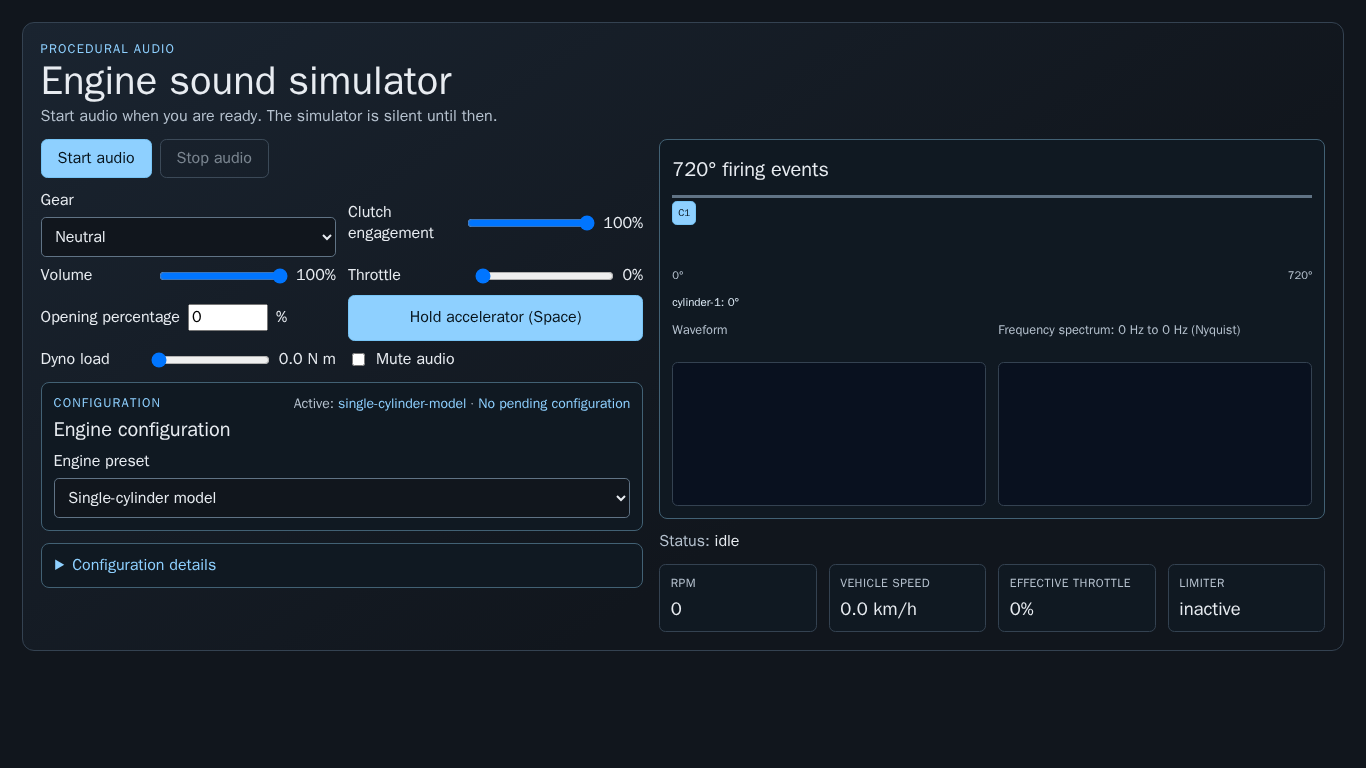
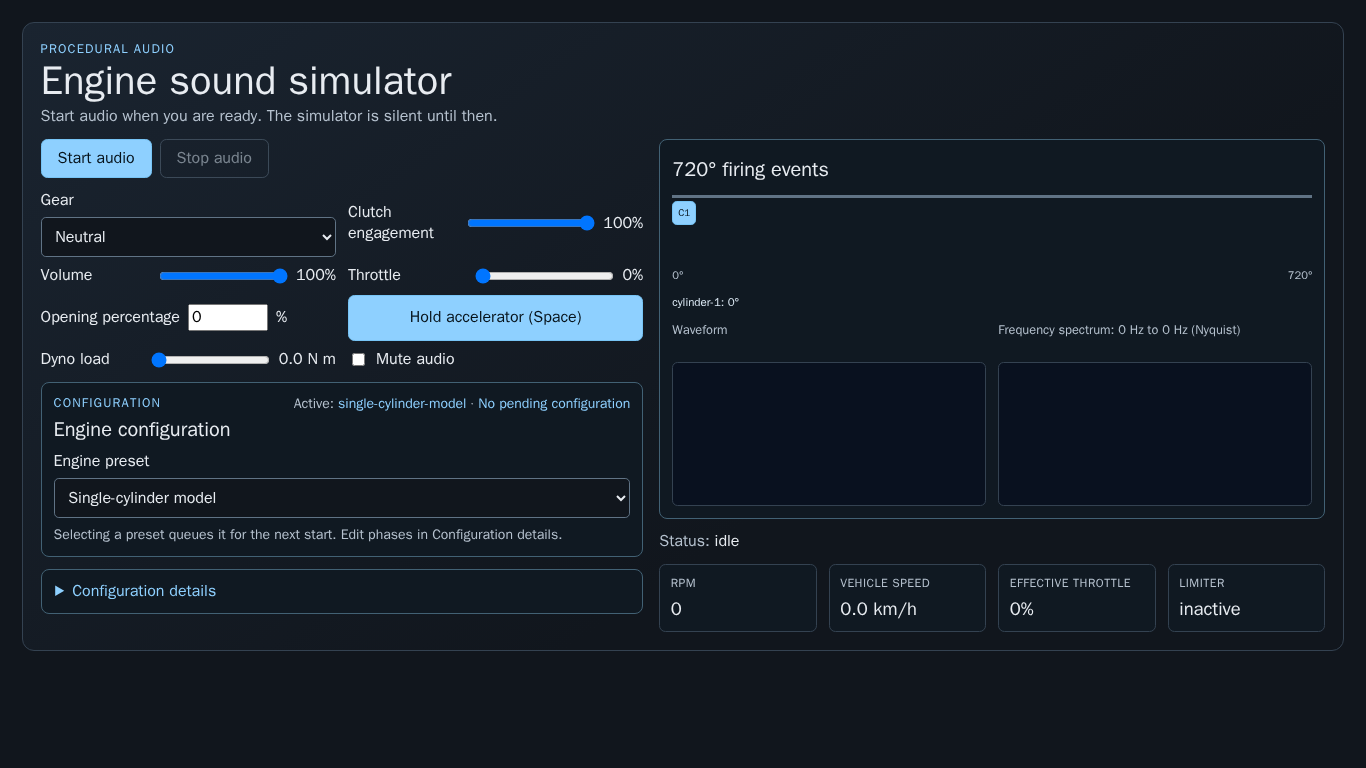
feat(ticket 27 follow-up): queue preset selection as pending immediately
- Preset selection while stopped validates via controller.stageConfig and
  stores as pending even with Configuration details closed
- Custom phase settings (__custom__) shown when phases are manually edited
- Reselecting original preset restores initial phase values
- Add E2E tests for closed-dashboard preset queueing and custom phase
  reselection
- Update README, ticket doc and report for follow-up changes

Changed region(s): [[0.0307, 0.6875, 0.4305, 0.7812]]

diff --git a/src/app/App.tsx b/src/app/App.tsx
@@ -33,6 +33,7 @@ const availablePresets: readonly EnginePreset[] = [
   vSixPreset,
   vEightPreset,
 ];
+const CUSTOM_PRESET_ID = "__custom__";
 
 function phaseValues(config: EngineConfig): string[] {
   return config.cylinders.map((cylinder) => String(cylinder.firingAngleDeg));
@@ -290,16 +291,21 @@ export function App() {
     syncHoldThrottle,
   ]);
 
-  const selectPreset = useCallback((presetId: string) => {
-    const preset = availablePresets.find(
-      ({ config }) => config.id === presetId,
-    );
-    if (!preset) return;
-    setSelectedPresetId(presetId);
-    setDraftConfig(preset.config);
-    setPhases(phaseValues(preset.config));
-    setValidationIssues([]);
-  }, []);
+  const selectPreset = useCallback(
+    (presetId: string) => {
+      const preset = availablePresets.find(
+        ({ config }) => config.id === presetId,
+      );
+      if (!preset) return;
+      const result = controller.stageConfig(preset.config);
+      if (!result.ok) return;
+      setSelectedPresetId(presetId);
+      setDraftConfig(result.value);
+      setPhases(phaseValues(result.value));
+      setValidationIssues([]);
+    },
+    [controller],
+  );
 
   const updatePhase = useCallback((index: number, value: string) => {
     setPhases((current) =>
@@ -307,6 +313,7 @@ export function App() {
         currentIndex === index ? value : phase,
       ),
     );
+    setSelectedPresetId(CUSTOM_PRESET_ID);
     setValidationIssues([]);
   }, []);
 
@@ -614,10 +621,14 @@ export function App() {
               <span>Engine preset</span>
               <select
                 id="engine-preset"
+                aria-describedby="preset-apply-help"
                 value={selectedPresetId}
                 onChange={(event) => selectPreset(event.target.value)}
                 disabled={!canStageConfig}
               >
+                {selectedPresetId === CUSTOM_PRESET_ID ? (
+                  <option value={CUSTOM_PRESET_ID}>Custom phase settings</option>
+                ) : null}
                 {availablePresets.map((preset) => (
                   <option key={preset.config.id} value={preset.config.id}>
                     {preset.metadata.name}
@@ -625,6 +636,10 @@ export function App() {
                 ))}
               </select>
             </label>
+            <p className="cycle-description" id="preset-apply-help">
+              Selecting a preset queues it for the next start. Edit phases in
+              Configuration details.
+            </p>
 
             {validationIssues.length > 0 || drivetrainIssues.length > 0 ? (
               <p className="validation-summary" role="alert">

diff --git a/tests/e2e/worklet.spec.ts b/tests/e2e/worklet.spec.ts
@@ -781,6 +781,63 @@ test("stages preset phase edits from the keyboard without creating audio", async
     .toBe(0);
 });
 
+test("queues a selected preset from the closed dashboard without starting audio", async ({
+  page,
+}) => {
+  await instrumentAudioGraph(page);
+  await page.goto("/");
+
+  await expect(page.locator(".configuration-details")).not.toHaveAttribute(
+    "open",
+  );
+  await page.getByLabel("Engine preset").focus();
+  await page.keyboard.press("End");
+  await expect(page.getByLabel("Engine preset")).toHaveValue(
+    "even-fire-v8-model",
+  );
+  await expect(page.getByTestId("pending-config")).toHaveText(
+    "even-fire-v8-model",
+  );
+  await expect(page.getByTestId("active-config")).toHaveText(
+    "single-cylinder-model",
+  );
+  await expect(page.getByTestId("firing-event")).toHaveCount(1);
+  await expect
+    .poll(() => audioGraphCount(page, "__e2eAudioContextCount"))
+    .toBe(0);
+
+  await page.getByRole("button", { name: "Start audio" }).click();
+  await expect(page.getByTestId("audio-status")).toHaveText("running");
+  await expect(page.getByTestId("active-config")).toHaveText(
+    "even-fire-v8-model",
+  );
+  await expect(page.getByTestId("pending-config")).toHaveText(
+    "No pending configuration",
+  );
+  await expect(page.getByLabel("Engine preset")).toBeDisabled();
+  await page.getByRole("button", { name: "Stop audio" }).click();
+  await expect(page.getByTestId("audio-status")).toHaveText("idle");
+});
+
+test("can reselect a preset after editing custom phases", async ({ page }) => {
+  await page.goto("/");
+  await page.getByLabel("Engine preset").selectOption("even-fire-v8-model");
+  await page.getByText("Configuration details", { exact: true }).click();
+  const firstPhase = page.getByLabel("Cylinder 1 phase (degrees)");
+  await firstPhase.fill("1");
+  await expect(page.getByLabel("Engine preset")).toHaveValue("__custom__");
+  await page.getByRole("button", { name: "Apply for next start" }).click();
+  await expect(firstPhase).toHaveValue("1");
+  await page.getByText("Configuration details", { exact: true }).click();
+
+  await page.getByLabel("Engine preset").selectOption("even-fire-v8-model");
+  await expect(page.getByTestId("pending-config")).toHaveText(
+    "even-fire-v8-model",
+  );
+  await page.getByText("Configuration details", { exact: true }).click();
+  await expect(firstPhase).toHaveValue("0");
+});
+
 test("applies a stopped two-stroke 360-degree configuration and starts it", async ({
   page,
 }) => {

diff --git a/docs/tickets/reports/027.md b/docs/tickets/reports/027.md
@@ -4,7 +4,7 @@
 
 Status: verified
 
-The mandatory automated acceptance, independent review and committed local Docker gate are complete.
+The original implementation passed its mandatory checks. A follow-up to make preset selection queue the configuration immediately is awaiting its committed Docker gate and final review.
 
 ## Scope
 
@@ -12,6 +12,7 @@ The mandatory automated acceptance, independent review and committed local Docke
 - Reviewed implementation revision: `0adbe22`.
 - Reorganized the existing controls and visualizations into a two-column desktop dashboard, kept the preset and pending state visible, and moved stopped-only settings into native collapsible details.
 - Narrow layouts stack the same controls without remounting the audio controller or visualization. The hold accelerator releases when a touch moves outside its bounds.
+- Follow-up: selecting a preset while stopped now validates and stores it as pending immediately, even with details closed. Individual phase edits still require the Apply button in details; active config changes only after the next Worklet handshake. Follow-up implementation revision: pending commit.
 
 ## Acceptance evidence
 
@@ -20,6 +21,7 @@ The mandatory automated acceptance, independent review and committed local Docke
 - `tests/e2e/dashboard.spec.ts`, `preserves playback and inputs`: stages V8, starts native audio, resizes from 1440px to 320px, opens and closes details, checks running state, active configuration and volume/throttle/load values, and stops audio. Canvas backing stores are checked at initial idle, running resize and stopped resize against both CSS dimensions and device pixel ratio. Code inspection confirms the existing controller is stored outside React and no resize/toggle path creates a new context; the E2E does not directly count context instances in this case.
 - `tests/e2e/dashboard.spec.ts`, touch-outside case: checks hold release after moving the active touch outside the accelerator.
 - Existing `tests/e2e/worklet.spec.ts` covers stopped-only staging, pending config, keyboard shifts, validation focus, visualization reads and restart cleanup across development and Nginx browser projects. Cases that access stopped-only fields explicitly open details.
+- `tests/e2e/worklet.spec.ts`, `queues a selected preset from the closed dashboard without starting audio`: proves selection creates pending immediately while active config and firing strip remain unchanged, no AudioContext is created, next start promotes the preset, and selection is disabled while running.
 - Screenshot evidence: [1366px desktop](../evidence/027/desktop-1366.png), [1440px desktop](../evidence/027/desktop-1440.png), [320px expanded mobile](../evidence/027/mobile-320-expanded.png). Both desktop images show readable controls, firing strip and analyser panes within the viewport; the 320px expanded form is readable without clipped inputs. These are Chromium CSS viewport captures, not physical phone evidence.
 
 ## Review
@@ -27,14 +29,16 @@ The mandatory automated acceptance, independent review and committed local Docke
 - Self-review covered the full diff against `origin/main`, narrow input overflow, keyboard focus, touch hold cancellation, validation announcements, stable controller state, visualization cleanup and screenshot readability. E2E exposed duplicate validation alerts and a Space-key hold regression, both corrected before the 50-case pass.
 - A `gpt-6-sol` / medium worker owned `src/app/App.tsx` and `src/styles/index.css` because the UI layout, existing control state and keyboard/pointer behavior interact. Its selected and observed model/effort matched. The orchestrator owns E2E, documentation, Git and integration.
 - A fresh independent `ticket-reviewer` (`gpt-6-sol` / high) found that canvas backing stores were resized only while running. The sizing effect now remains active at idle and after stop, independent from the RAF animation loop. The reviewer rechecked the corrected effect and new initial/running/stopped E2E assertions and reported no remaining actionable issue. The reviewer inspected all three screenshots independently.
+- Follow-up self-review checked that preset selection uses the existing stopped-only controller validation path and does not bypass pending/active handshake. Independent follow-up review: pending.
 
 ## Verification
 
 - Docker `make e2e` — passed: 50 Chromium tests across Vite development and Nginx production projects, including the review correction.
 - Docker `make ci` — passed on committed implementation revision `0adbe22`: formatting, Markdown, ticket catalog/tooling, ESLint, TypeScript, 193 unit tests in 25 files, application and web image builds, 50 Playwright cases, actionlint, Hadolint and committed-history Gitleaks over 108 commits.
+- Follow-up `make e2e` — passed: 52 Chromium tests across Vite development and Nginx production projects. Follow-up committed `make ci` is pending.
 - Final-head GitHub `Repository checks`: pending until the Draft PR is pushed.
 
 ## Limits and next actions
 
 - Smartphone physical-device audio and listening are optional for this ticket and were not performed. No physical-device result is claimed.
-- No mandatory local acceptance check or review finding remains pending. Current-head GitHub CI is tracked in the Draft PR.
+- Follow-up committed Docker gate, independent review and current-head GitHub CI remain pending. The Draft PR tracks the final CI result.

diff --git a/docs/tickets/027-responsive-dashboard.md b/docs/tickets/027-responsive-dashboard.md
@@ -17,6 +17,7 @@ PCでは主要操作と可視化を同時に見渡せ、スマートフォンで
 
 - `src/app/App.tsx`、`src/styles/index.css`、`src/components/EngineVisualizations.tsx` と関連コンポーネント、`tests/e2e/worklet.spec.ts` または新規レイアウトspecを対象とする。
 - 広い画面は操作・状態と可視化を複数列に配置する。構成編集と長い説明は明示的に開閉できる詳細領域へまとめ、初期状態で閉じる。詳細を隠しても適用待ち・検証エラーの存在と編集への入口は分かること。
+- プリセット選択は詳細を閉じた状態でも操作でき、停止中の選択時に検証済み構成を次回開始用のpendingへ保存する。位相を手編集すると選択欄をカスタム表示に変え、元のプリセットを選び直して初期位相へ戻せるようにする。位相の個別編集は詳細内の反映ボタンで保存する。どちらもAudioContextを開始せず、適用済み構成への昇格は次回開始時のWorklet確認後とする。
 - 1366×768および1440×900のCSS viewport、標準倍率、詳細を閉じた初期画面で、開始/停止・音量・RPM・アクセル・負荷・ギア/クラッチ・車速・プリセット選択・燃焼列・波形・FFTがページの縦スクロールなしで見えることを設計目標かつ自動受け入れ条件とする。文字やグラフを読めない大きさへ縮小して達成しない。
 - 320、375、768px幅では内容に応じて列を減らし、ページの縦スクロールを許容する。設定表を含めページ全体の横スクロール、重なり、入力の欠落を防ぐ。詳細を開いた場合や200%ズームでは全内容へスクロールで到達できる。
 - DOMの読み順とフォーカス順を自然に保ち、開閉ボタンの状態を支援技術へ伝える。画面幅変更や詳細開閉でAudioContext、入力値、適用済み構成を作り直さない。
@@ -26,6 +27,7 @@ PCでは主要操作と可視化を同時に見渡せ、スマートフォンで
 
 - 上記PC viewportで主要領域の可視性をbounding box等で自動確認する。狭幅では詳細を開いた状態も含め横overflowがなく、8気筒設定を編集・適用できる。
 - 開始/停止、プリセット適用待ち、アクセル解放、キーボード変速、可視化の既存回帰を維持する。
+- 詳細を閉じた状態でキーボードからプリセットを選択するとpendingが直ちに更新され、再生中は選択できず、次回開始までactiveが変わらないことを確認する。手編集後に同じプリセットを再選択して初期位相を復元できることも確認する。
 - サイズ変更前後で再生状態と入力値が維持される。200%ズーム相当の狭いCSS viewportでも操作へ到達できる。
 - 代表的なPC/スマートフォン幅のスクリーンショットを報告へ添付し、文字とグラフの可読性をレビューする。
 

diff --git a/README.md b/README.md
@@ -47,7 +47,7 @@ make dev
 PC画面では主要操作と燃焼列・波形・スペクトルを並べて表示し、狭い画面では縦に並べます。
 `Configuration details` を開くと車両質量・前進ギア比と燃焼位相の編集欄が表示されます。
 車両質量と前進ギア比は音声を停止してから編集・適用します。
-プリセットは閉じた状態でも選択でき、燃焼位相は詳細欄を開いて編集します。音声を停止して適用すると、次の開始時に
+プリセットは停止中に選ぶと詳細欄を閉じたまま次回開始用に保存されます。燃焼位相の編集は詳細欄を開いて反映ボタンで保存します。位相を手編集した後は選択欄が `Custom phase settings` になり、元のプリセットを選び直すと初期位相に戻せます。どちらも次の開始時に
 反映します。終了時は `Ctrl+C` で開発サーバーを止め、必要に応じて `make down` で
 Composeサービスを停止します。
 
